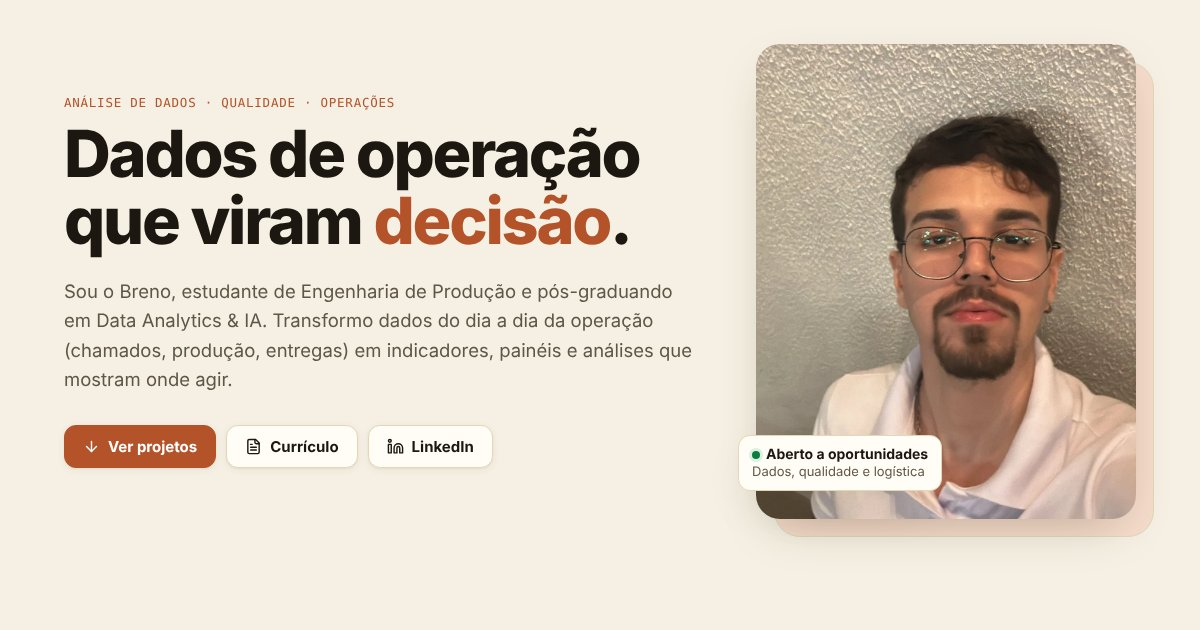
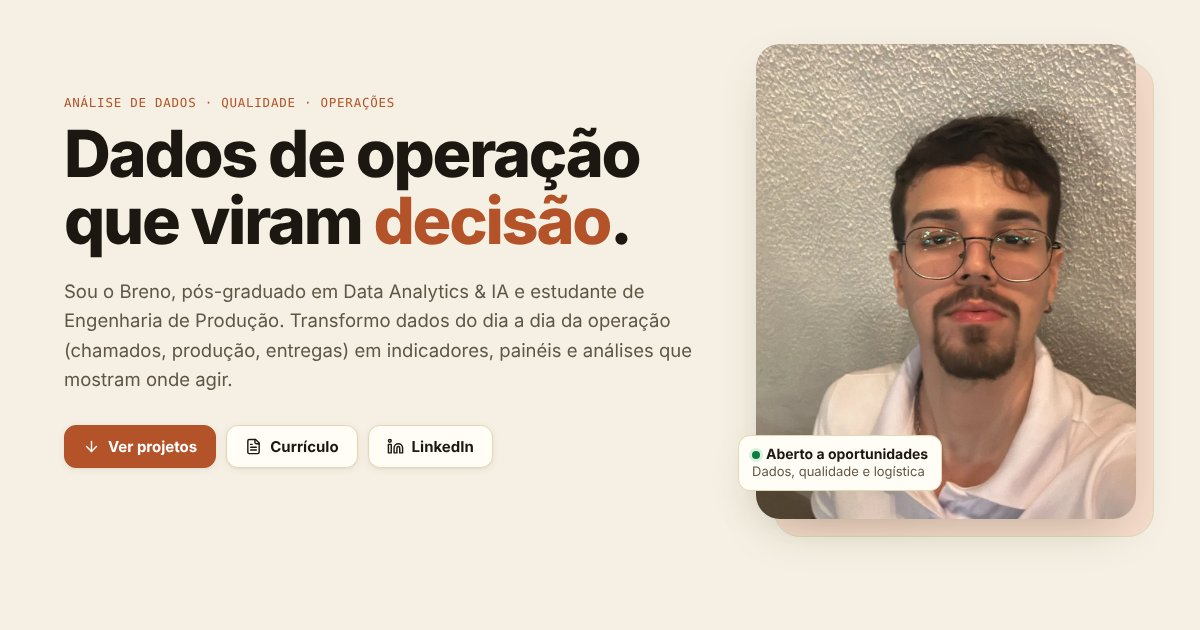
Pós-graduação em Data Analytics & IA passa a constar como concluída
Claude-Session: https://claude.ai/code/session_013ScHhcjfMfb2SFCajT6Cio

Changed region(s): [[0.0308, 0.4524, 0.555, 0.5429]]

diff --git a/src/content.ts b/src/content.ts
@@ -77,7 +77,7 @@ export const CONTENT: Record<Language, Content> = {
     hero: {
       kicker: 'Análise de dados · Qualidade · Operações',
       title: 'Dados de operação que viram decisão.',
-      intro: 'Sou o Breno, estudante de Engenharia de Produção e pós-graduando em Data Analytics & IA. Transformo dados do dia a dia da operação (chamados, produção, entregas) em indicadores, painéis e análises que mostram onde agir.',
+      intro: 'Sou o Breno, pós-graduado em Data Analytics & IA e estudante de Engenharia de Produção. Transformo dados do dia a dia da operação (chamados, produção, entregas) em indicadores, painéis e análises que mostram onde agir.',
       ctaProjects: 'Ver projetos',
       ctaCv: 'Currículo',
       ctaLinkedin: 'LinkedIn',
@@ -94,7 +94,7 @@ export const CONTENT: Record<Language, Content> = {
       title: 'Sobre',
       paragraphs: [
         'Trabalho como analista de suporte corporativo em um projeto do setor de óleo e gás, onde também sou o ponto focal de qualidade da equipe. Além do atendimento, crio macros, planilhas e painéis em Power BI que ajudam a supervisão a acompanhar os indicadores.',
-        'Sou formado em Análise e Desenvolvimento de Sistemas, curso Engenharia de Produção e faço pós em Data Analytics & IA. Essa combinação junta a visão de processo da engenharia com as ferramentas de dados: primeiro entender o problema da operação, depois escolher a ferramenta.',
+        'Sou formado em Análise e Desenvolvimento de Sistemas, pós-graduado em Data Analytics & IA e curso Engenharia de Produção. Essa combinação junta a visão de processo da engenharia com as ferramentas de dados: primeiro entender o problema da operação, depois escolher a ferramenta.',
         'Na minha equipe, criei um programa de reconhecimento da qualidade baseado em PDCA e em indicadores de satisfação, que conecta o que medimos ao que fazemos para melhorar.',
       ],
       facts: [
@@ -222,7 +222,7 @@ export const CONTENT: Record<Language, Content> = {
     education: {
       title: 'Formação',
       degrees: [
-        { course: 'Pós-graduação em Data Analytics & IA', school: 'Preditiva Analytics', status: 'Em andamento' },
+        { course: 'Pós-graduação em Data Analytics & IA', school: 'Preditiva Analytics', status: 'Concluído' },
         { course: 'Engenharia de Produção', school: 'UNIGRAN', status: 'Em andamento' },
         { course: 'Análise e Desenvolvimento de Sistemas', school: 'Graduação tecnológica', status: 'Concluído' },
         { course: 'Técnico em Logística', school: 'Padrão Treinamentos', status: 'Concluído' },
@@ -244,7 +244,7 @@ export const CONTENT: Record<Language, Content> = {
     hero: {
       kicker: 'Data analytics · Quality · Operations',
       title: 'Operational data that turns into decisions.',
-      intro: "I'm Breno, a Production Engineering student taking a postgraduate course in Data Analytics & AI. I turn everyday operational data (tickets, production, deliveries) into KPIs, dashboards and analyses that show where to act.",
+      intro: "I'm Breno, a Data Analytics & AI postgraduate and Production Engineering student. I turn everyday operational data (tickets, production, deliveries) into KPIs, dashboards and analyses that show where to act.",
       ctaProjects: 'See projects',
       ctaCv: 'Résumé',
       ctaLinkedin: 'LinkedIn',
@@ -261,7 +261,7 @@ export const CONTENT: Record<Language, Content> = {
       title: 'About',
       paragraphs: [
         "I work as a corporate support analyst on an oil and gas project, where I'm also my team's quality focal point. Besides user support, I build macros, spreadsheets and Power BI dashboards that help supervisors track KPIs.",
-        "I hold a degree in Systems Analysis and Development, I'm studying Production Engineering and taking a postgraduate course in Data Analytics & AI. This mix brings together engineering's process view and data tools: understand the operational problem first, then pick the tool.",
+        "I hold a degree in Systems Analysis and Development and a postgraduate degree in Data Analytics & AI, and I'm studying Production Engineering. This mix brings together engineering's process view and data tools: understand the operational problem first, then pick the tool.",
         'On my team, I created a quality recognition program based on PDCA and satisfaction metrics, linking what we measure to what we do to improve.',
       ],
       facts: [
@@ -389,7 +389,7 @@ export const CONTENT: Record<Language, Content> = {
     education: {
       title: 'Education',
       degrees: [
-        { course: 'Postgraduate course in Data Analytics & AI', school: 'Preditiva Analytics', status: 'In progress' },
+        { course: 'Postgraduate degree in Data Analytics & AI', school: 'Preditiva Analytics', status: 'Completed' },
         { course: 'Production Engineering', school: 'UNIGRAN', status: 'In progress' },
         { course: 'Systems Analysis and Development', school: 'Technology degree', status: 'Completed' },
         { course: 'Logistics Technician', school: 'Padrão Treinamentos', status: 'Completed' },
